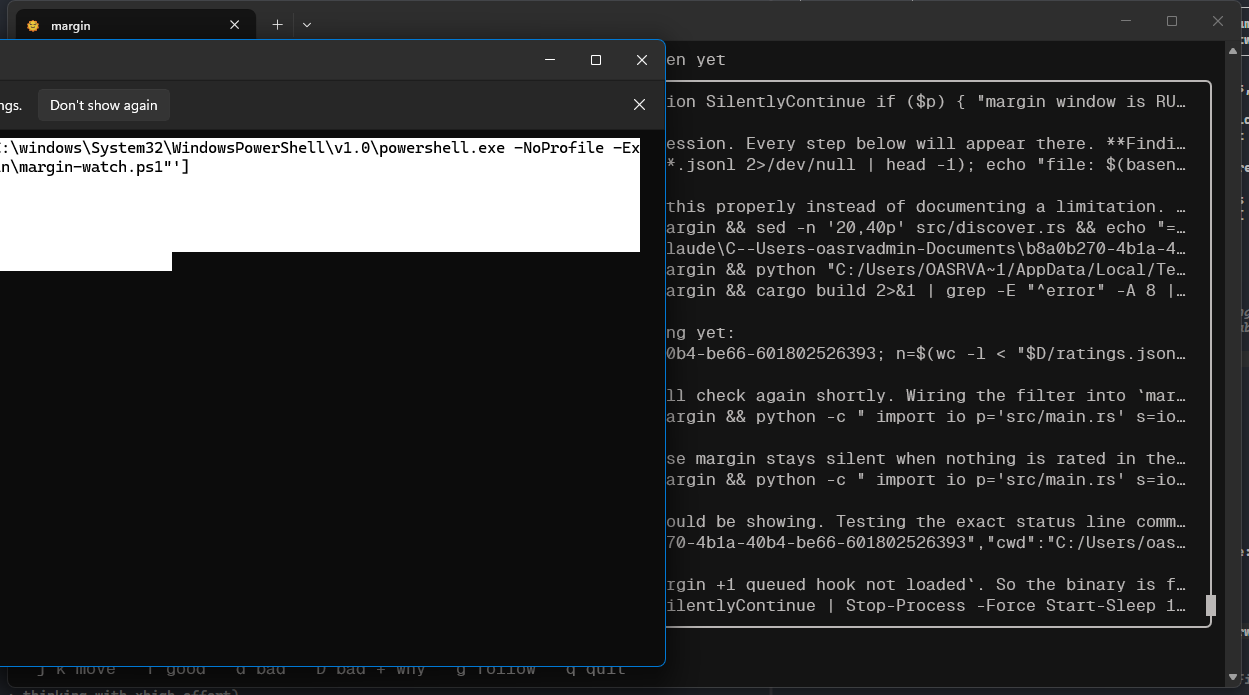
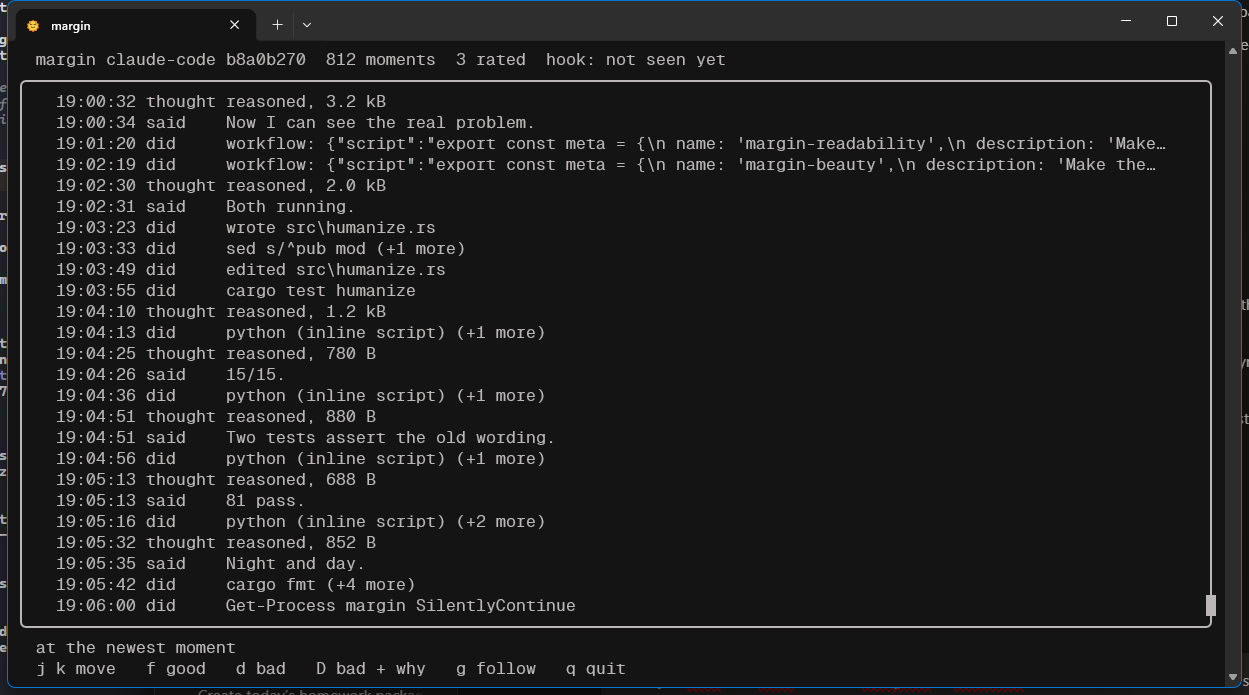
fix: a flag value is not the command's subject
Rows read "Get-Process margin SilentlyContinue", where the tail is the
argument to -ErrorAction and scans as though it were the target.

Flags whose value names what the command acts on are listed explicitly:
name, path, file, id and a few others. Everything else is configuration
and its value is dropped. A short list rather than a guess, because a
wrong subject misleads more than a missing one does.

Workflow calls showed the first eighty characters of the script they were
handed. They now show the workflow's name, which is the only part of a
script that fits or matters in a row.

diff --git a/src/humanize.rs b/src/humanize.rs
@@ -41,6 +41,8 @@ pub fn tool(name: &str, input: &str) -> String {
         "WebSearch" => format!("web search {arg}"),
         "TodoWrite" => "updated the todo list".to_string(),
         "Task" | "Agent" => format!("delegated: {arg}"),
+        // A workflow's input is a whole script. Its name is the only part worth a row.
+        "Workflow" => format!("workflow: {}", workflow_name(arg)),
         "Bash" | "PowerShell" | "Shell" => command(arg),
         other if arg.is_empty() => other.to_lowercase(),
         other => format!("{}: {arg}", other.to_lowercase()),
@@ -141,10 +143,25 @@ fn summarise_segment(segment: &str) -> String {
     }
 
     // Otherwise: the program, its subcommand if it has one, and the first real argument.
+    //
+    // Flags are skipped, and so is the value of a PowerShell-style flag. Skipping only the
+    // flag itself produced rows like "Get-Process margin SilentlyContinue", where the tail
+    // is the argument to -ErrorAction and reads as though it were a subject. A single-dash
+    // word takes a following value; a double-dash one usually does not.
     let mut parts = vec![prog_short.to_string()];
-    for w in rest.iter().take(6) {
-        if w.starts_with('-') {
-            continue; // flags rarely identify a command to a human
+    let mut skip_next = false;
+    for w in rest.iter().take(10) {
+        if skip_next {
+            skip_next = false;
+            continue;
+        }
+        if let Some(flag) = w.strip_prefix('-') {
+            let takes_value = !flag.starts_with('-') && !w.contains('=');
+            // Some flags carry the subject and some carry configuration. `-Name margin` is
+            // what the command is about; `-ErrorAction SilentlyContinue` is not, and
+            // rendering its value made rows read as though SilentlyContinue were the target.
+            skip_next = takes_value && !carries_subject(flag);
+            continue;
         }
         parts.push(short_path(w).to_string());
         if parts.len() >= 3 {
@@ -171,6 +188,35 @@ pub fn short_path(p: &str) -> &str {
         Some(i) if i < trimmed.len() => &trimmed[i..],
         _ => trimmed,
     }
+}
+
+/// Whether a flag's value names what the command acts on.
+///
+/// Deliberately a short list rather than a guess. Everything not named here is treated as
+/// configuration and its value is dropped, which is the right default: a wrong subject is
+/// more misleading than a missing one.
+fn carries_subject(flag: &str) -> bool {
+    let f = flag.trim_start_matches('-').to_ascii_lowercase();
+    matches!(
+        f.as_str(),
+        "name" | "path" | "literalpath" | "filepath" | "file" | "f" | "id" | "target" | "out"
+    )
+}
+
+/// The `name:` out of a workflow script, since the input is the entire script text.
+fn workflow_name(arg: &str) -> String {
+    for key in [r#"name: '"#, r#"name: ""#, r#""name":""#, r#""name": ""#] {
+        if let Some(rest) = arg.split(key).nth(1) {
+            let name: String = rest
+                .chars()
+                .take_while(|c| *c != '\'' && *c != '"')
+                .collect();
+            if !name.is_empty() {
+                return name;
+            }
+        }
+    }
+    "(unnamed)".to_string()
 }
 
 fn host_of(url: &str) -> &str {
@@ -301,6 +347,33 @@ mod tests {
         );
         assert_eq!(tool("Edit", "src/main.rs"), "edited src/main.rs");
         assert_eq!(tool("Write", "notes.md"), "wrote notes.md");
+    }
+
+    /// A flag value used to be shown as though it were the command's subject, producing
+    /// rows like "Get-Process margin SilentlyContinue".
+    #[test]
+    fn a_flag_value_is_not_mistaken_for_a_subject() {
+        assert_eq!(
+            tool(
+                "PowerShell",
+                "Get-Process -Name margin -ErrorAction SilentlyContinue"
+            ),
+            "Get-Process margin"
+        );
+        // double-dash flags do not consume the next word
+        assert_eq!(
+            tool("Bash", "cargo test --quiet humanize"),
+            "cargo test humanize"
+        );
+        assert_eq!(tool("Bash", "cargo build --release"), "cargo build");
+    }
+
+    #[test]
+    fn a_workflow_shows_its_name_not_its_script() {
+        let script = r#"{"script":"export const meta = {
+  name: 'margin-readability',
+  description: 'Make each row...'"}"#;
+        assert_eq!(tool("Workflow", script), "workflow: margin-readability");
     }
 
     #[test]
